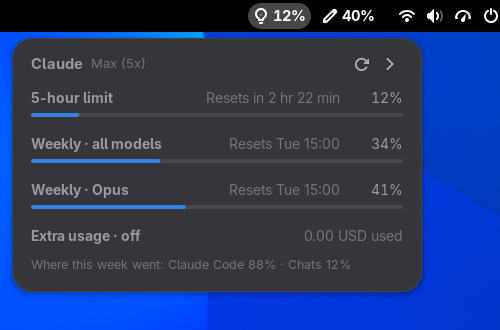
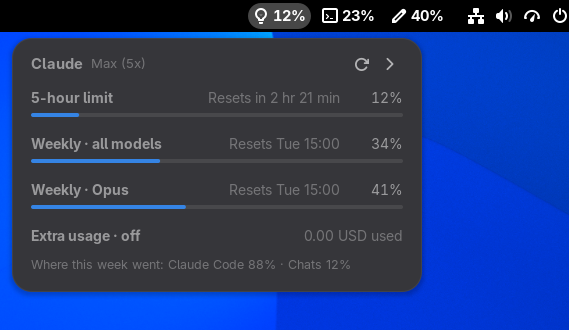
start --stand-in overlays a stand-in codex, with a stand-in login and answer
--stand-in (and so shots) found the real /usr/bin/codex on PATH. codex now
joins claude and agy in EXT_STAND_IN_BINS, the scratch HOME gets a stand-in
~/.codex/auth.json (an invented JWT-shaped token), and stand-in-http.js answers
Codex's usage endpoint with invented figures in the live response shape. The
screenshots are retaken with the Codex button, the shot coordinates
re-measured for the wider row, and the README's alt text follows.

Fixes #115

Claude-Session: https://claude.ai/code/session_01NaK9d4At79SdQMaiSv4pNp

diff --git a/scripts/stand-in-http.js b/scripts/stand-in-http.js
@@ -78,8 +78,44 @@ function antigravityQuota() {
     };
 }
 
+// A Codex window, as the service writes it: seconds, and the reset as a Unix time.
+function codexWindow(percent, hours, resetsAt) {
+    const at = GLib.DateTime.new_from_iso8601(resetsAt, null).to_unix();
+    return {
+        used_percent: percent,
+        limit_window_seconds: hours * 60 * 60,
+        reset_after_seconds: at - GLib.DateTime.new_now_utc().to_unix(),
+        reset_at: at,
+    };
+}
+
+function codexUsage() {
+    const session = codexWindow(23, 5, inHours(1, 50));
+    const weekly = codexWindow(47, 7 * 24, inDaysAt(3, 9));
+    return {
+        user_id: 'user-StandInStandInStandIn00',
+        account_id: '00000000-0000-4000-8000-000000000000',
+        email: 'someone@example.com',
+        plan_type: 'plus',
+        rate_limit: {allowed: true, limit_reached: false, primary_window: session, secondary_window: weekly},
+        code_review_rate_limit: null,
+        additional_rate_limits: null,
+        model_usage: {},
+        chatpass: {windows: [session, weekly]},
+        credits: {
+            has_credits: false, unlimited: false, overage_limit_reached: false, balance: null,
+            approx_local_messages: null, approx_cloud_messages: null,
+        },
+        spend_control: {reached: false, individual_limit: null},
+        rate_limit_reached_type: null,
+        promo: null,
+        rate_limit_reset_credits: {available_count: 0, applicable_available_count: 0},
+    };
+}
+
 const ANSWERS = {
     'https://api.anthropic.com/api/oauth/usage': claudeUsage,
+    'https://chatgpt.com/backend-api/wham/usage': codexUsage,
     'https://cloudcode-pa.googleapis.com/v1internal:loadCodeAssist': antigravityProject,
     'https://cloudcode-pa.googleapis.com/v1internal:retrieveUserQuotaSummary': antigravityQuota,
 };

diff --git a/README.md b/README.md
@@ -4,9 +4,10 @@ Shows how much of your AI subscriptions' rate limits you have used, as a button 
 top bar: the current session, the week, and the week for each model, with the time each
 one resets.
 
-![The pop-up for Claude on a Max (5x) plan, open under its top-bar button reading 12%:
-the 5-hour limit at 12%, resetting in 2 hr 22 min; the week across all models at 34% and
-the week for Opus at 41%, both resetting Mon 15:00, each with a bar; "Extra usage · off"
+![The pop-up for Claude on a Max (5x) plan, open under its top-bar button reading 12%,
+beside Codex's at 23% and Antigravity's at 40%: the 5-hour limit at 12%, resetting in
+2 hr 21 min; the week across all models at 34% and the week for Opus at 41%, both
+resetting Tue 15:00, each with a bar; "Extra usage · off"
 with 0.00 USD used; and "Where this week went: Claude Code 88% · Chats 12%". The header
 has a refresh button and an arrow to the preferences.](docs/screenshots/pop-up.png)
 
@@ -28,8 +29,8 @@ has a refresh button and an arrow to the preferences.](docs/screenshots/pop-up.p
 - **Your choice of figure and place**: the session, the week or whichever is highest, at
   the left, centre or right of the top bar.
 
-![Two buttons at the right of the top bar: Claude's light bulb reading 12% and
-Antigravity's pencil reading 40%.](docs/screenshots/top-bar-cropped.png)
+![Three buttons at the right of the top bar: Claude's light bulb reading 12%, Codex's
+terminal reading 23% and Antigravity's pencil reading 40%.](docs/screenshots/top-bar-cropped.png)
 
 ## You never sign in here
 
@@ -101,7 +102,7 @@ To update, `git pull && make install`, then log out and back in. To remove it,
 
 | Buttons | Readings | Providers |
 | --- | --- | --- |
-| ![The Buttons page: which figure each button carries, set to Current session; a switch for showing the percentage; how reset times are worded; and the start of where the buttons sit.](docs/screenshots/preferences-buttons.png) | ![The Readings page: 300 seconds between readings, and Notify at 0, which turns notifications off.](docs/screenshots/preferences-readings.png) | ![The Providers page: Claude Code found at /usr/bin/claude, the Codex CLI not installed so Codex is left out, and the Antigravity CLI (agy) found at /usr/bin/agy, each with its button's icon and a switch.](docs/screenshots/preferences-providers.png) |
+| ![The Buttons page: which figure each button carries, set to Current session; a switch for showing the percentage; how reset times are worded; and the start of where the buttons sit.](docs/screenshots/preferences-buttons.png) | ![The Readings page: 300 seconds between readings, and Notify at 0, which turns notifications off.](docs/screenshots/preferences-readings.png) | ![The Providers page: Claude Code found at /usr/bin/claude, the Codex CLI found at /usr/bin/codex, and the Antigravity CLI (agy) found at /usr/bin/agy, each with its button's icon and a switch.](docs/screenshots/preferences-providers.png) |
 
 - **Buttons**: the figure each button carries, whether the percentage is shown beside the
   icon, how reset times are worded, which end of the top bar the buttons sit in and

diff --git a/CLAUDE.md b/CLAUDE.md
@@ -142,7 +142,7 @@ extension's own:
   without that, `start --stand-in`. No `PATH` hides the CLIs: Codex's is in
   `/usr/bin`, which every start needs.
 * **`start --stand-in`** is a stand-in world (`./scripts/nested.d/stand-in.sh`):
-  stand-in `claude` and `agy` overlaid on `/usr/bin` (`EXT_STAND_IN_BINS`), a
+  stand-in `claude`, `codex` and `agy` overlaid on `/usr/bin` (`EXT_STAND_IN_BINS`), a
   scratch `HOME` with stand-in logins, and the staged copy's `lib/http.js`
   replaced by `./scripts/stand-in-http.js`, which answers with invented figures.
   No real path, login, account or network reaches it; a provider added without
